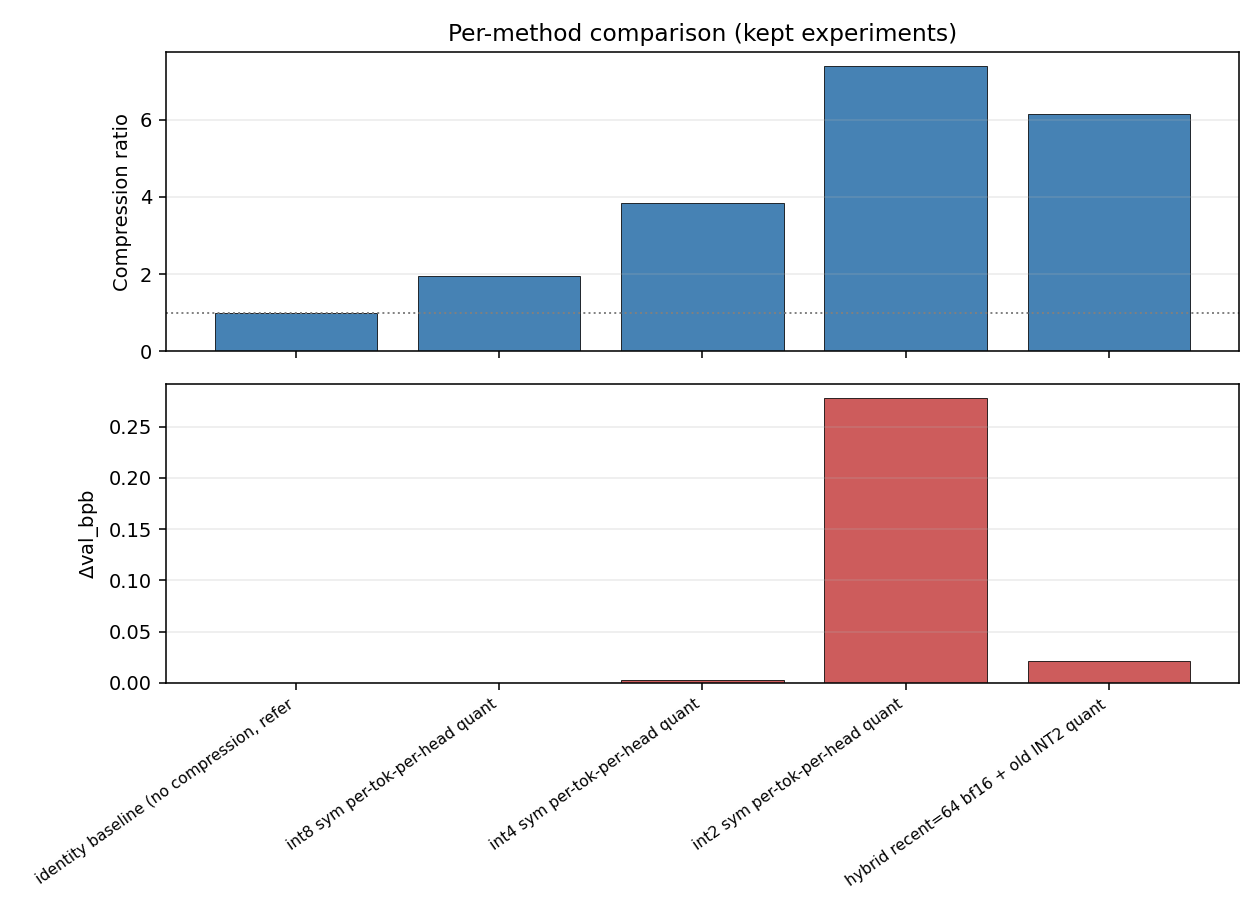
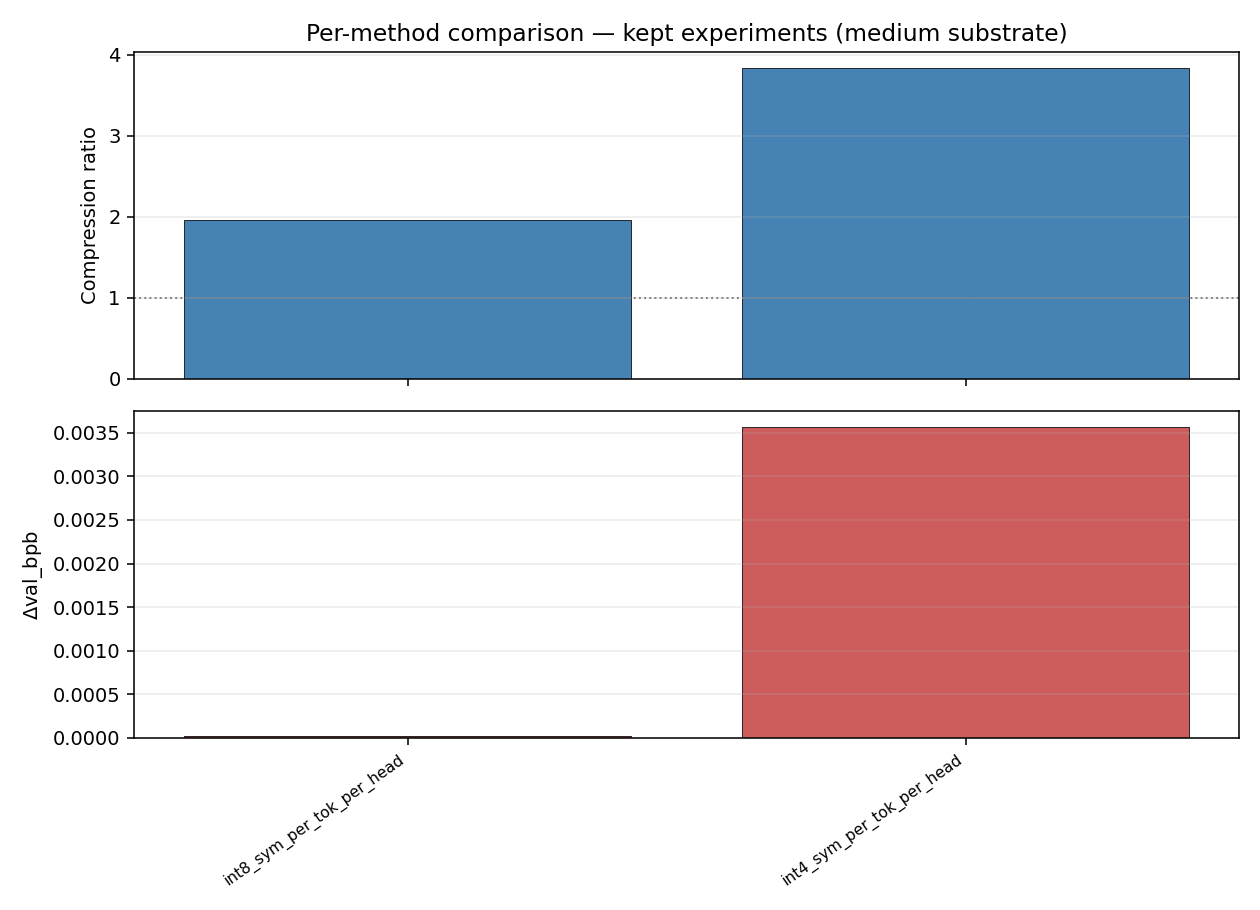
Refresh figures: family_pareto, substrate_sweep, multi-substrate Pareto
figures.py now reads the substrate tag from each row's description, drops
crash/marker rows, and emits:
- pareto.png        — Δbpb vs ratio coloured by substrate
- family_pareto.png — same but coloured by compressor family (medium)
- substrate_sweep.png — Δbpb and ratio across small→medium→large
- score_trajectory.png, method_comparison.png

diff --git a/figures.py b/figures.py
@@ -1,15 +1,16 @@
 """Generate figures for the paper from results.tsv.
 
 Reads results.tsv, plots:
-  - Pareto front: compression_ratio (x) vs val_bpb_delta (y), kept points highlighted
-  - Bar chart of compression_score by experiment
-  - Score vs experiment-index trajectory (research progress over time)
-
-Outputs to figures/*.png.
+  - figures/pareto.png            — Pareto front for each substrate
+  - figures/family_pareto.png     — same but coloured by compressor family
+  - figures/substrate_sweep.png   — compressor-by-substrate comparison
+  - figures/score_trajectory.png  — research-progress plot
+  - figures/method_comparison.png — per-method ratio + delta bar chart
 """
 import os
 import csv
 import math
+import re
 import matplotlib
 matplotlib.use("Agg")
 import matplotlib.pyplot as plt
@@ -18,57 +19,200 @@ FIG_DIR = "figures"
 os.makedirs(FIG_DIR, exist_ok=True)
 
 
+SUBSTRATES = ["small", "medium", "large"]
+SUBSTRATE_COLORS = {"small": "#9c5fb6", "medium": "#1f77b4", "large": "#d62728"}
+
+FAMILY_COLORS = {
+    "quant":      "#1f77b4",
+    "quant_grp":  "#aec7e8",
+    "quant_asym": "#5b8ec7",
+    "quant_mix":  "#003f88",
+    "evict":      "#d62728",
+    "evict_sink": "#ff9896",
+    "evict_topk": "#ff7f0e",
+    "lowrank":    "#9467bd",
+    "headprune":  "#8c564b",
+    "hybrid":     "#2ca02c",
+    "stack":      "#17becf",
+    "identity":   "#777777",
+}
+
+
+def family_of(name):
+    n = name.lower()
+    if n.startswith("identity"):
+        return "identity"
+    if n.startswith("stack_"):
+        return "stack"
+    if n.startswith("hybrid_"):
+        return "hybrid"
+    if "_asym" in n:
+        return "quant_asym"
+    if n.startswith("mixed_"):
+        return "quant_mix"
+    if "_group" in n or re.search(r"int\d+_g\d+", n):
+        return "quant_grp"
+    if re.match(r"int\d+", n):
+        return "quant"
+    if n.startswith("sliding_window"):
+        return "evict"
+    if n.startswith("sink"):
+        return "evict_sink"
+    if n.startswith("topk_"):
+        return "evict_topk"
+    if n.startswith("svd_") or n.startswith("randproj"):
+        return "lowrank"
+    if n.startswith("headprune"):
+        return "headprune"
+    return "identity"
+
+
+def parse_row_substrate(desc):
+    """Extract substrate tag (small/medium/large) from description, or 'small_legacy' for old rows."""
+    m = re.search(r"\[(small|medium|large)", desc)
+    if m:
+        return m.group(1)
+    return "small_legacy"
+
+
+def parse_compressor_name(desc):
+    """Extract compressor name from description (first token before '[' or first phrase)."""
+    m = re.match(r"([a-zA-Z0-9_+:]+)", desc)
+    if m:
+        return m.group(1)
+    return desc.split()[0] if desc else ""
+
+
 def load_results(path="results.tsv"):
     rows = []
     with open(path) as f:
         reader = csv.DictReader(f, delimiter="\t")
         for row in reader:
             try:
+                if row["status"] == "marker":
+                    continue
+                if row["status"] == "crash":
+                    continue
+                ratio = float(row["compression_ratio"])
+                if ratio <= 0:
+                    continue
+                desc = row["description"]
+                substrate = parse_row_substrate(desc)
+                name = parse_compressor_name(desc)
                 rows.append({
                     "commit": row["commit"],
                     "compression_score": float(row["compression_score"]),
-                    "compression_ratio": float(row["compression_ratio"]),
+                    "compression_ratio": ratio,
                     "val_bpb_delta": float(row["val_bpb_delta"]),
                     "compressed_bpb": float(row["compressed_bpb"]),
                     "status": row["status"],
-                    "description": row["description"],
+                    "description": desc,
+                    "substrate": substrate,
+                    "name": name,
+                    "family": family_of(name),
                 })
             except (KeyError, ValueError):
                 continue
     return rows
 
 
-def plot_pareto(rows, out_path):
-    fig, ax = plt.subplots(figsize=(8, 5.5))
-    keeps = [r for r in rows if r["status"] == "keep" and r["compression_ratio"] > 0]
-    discards = [r for r in rows if r["status"] == "discard" and r["compression_ratio"] > 0]
-    if discards:
-        ax.scatter([r["compression_ratio"] for r in discards],
-                   [r["val_bpb_delta"] for r in discards],
-                   marker="x", c="lightgray", s=50, label="discarded", zorder=2)
-    if keeps:
-        ax.scatter([r["compression_ratio"] for r in keeps],
-                   [r["val_bpb_delta"] for r in keeps],
-                   marker="o", c="steelblue", s=80, edgecolors="black",
-                   linewidths=0.7, label="kept", zorder=3)
-        for r in keeps:
-            ax.annotate(r["description"][:32], (r["compression_ratio"], r["val_bpb_delta"]),
-                        fontsize=7, alpha=0.85, xytext=(4, 4), textcoords="offset points")
-    # Iso-score lines: ratio - 10*delta = const → delta = (ratio - const)/10
-    if keeps or discards:
-        all_r = [r["compression_ratio"] for r in keeps + discards]
-        rmax = max(all_r + [1.0])
-        for level in [1.0, 2.0, 3.0, 4.0]:
-            xs = [1.0, rmax * 1.05]
-            ys = [(x - level) / 10.0 for x in xs]
-            ax.plot(xs, ys, ls="--", lw=0.6, c="gray", alpha=0.5)
-            ax.text(xs[1], ys[1], f"score={level}", fontsize=7, c="gray", alpha=0.7)
+def plot_substrate_pareto(rows, out_path):
+    """Pareto colored by substrate, all on one axis."""
+    fig, ax = plt.subplots(figsize=(8.5, 5.5))
+    for sub in ["small", "medium", "large"]:
+        sub_rows = [r for r in rows if r["substrate"] == sub]
+        if not sub_rows:
+            continue
+        keeps = [r for r in sub_rows if r["status"] == "keep"]
+        discards = [r for r in sub_rows if r["status"] == "discard"]
+        c = SUBSTRATE_COLORS[sub]
+        if discards:
+            ax.scatter([r["compression_ratio"] for r in discards],
+                       [r["val_bpb_delta"] for r in discards],
+                       marker="x", c=c, s=40, alpha=0.45, label=f"{sub} (discard)")
+        if keeps:
+            ax.scatter([r["compression_ratio"] for r in keeps],
+                       [r["val_bpb_delta"] for r in keeps],
+                       marker="o", c=c, s=90, edgecolors="black",
+                       linewidths=0.7, label=f"{sub} (keep)")
+            for r in keeps:
+                ax.annotate(r["name"][:24], (r["compression_ratio"], r["val_bpb_delta"]),
+                            fontsize=7, alpha=0.85, xytext=(4, 4), textcoords="offset points")
     ax.axhline(0, c="black", lw=0.4, alpha=0.5)
-    ax.set_xlabel("Compression ratio (uncompressed_bytes / compressed_bytes)")
-    ax.set_ylabel(r"Quality loss $\Delta$val_bpb (compressed - baseline)")
-    ax.set_title("Pareto front of KV-cache compressors\n(higher ratio + lower delta = better)")
-    ax.legend(loc="upper left")
+    ax.axhline(0.10, c="orange", lw=0.6, ls=":", alpha=0.6, label="Δ=0.10 (keep gate)")
+    ax.set_xlabel("Compression ratio (uncompressed bytes / compressed bytes)")
+    ax.set_ylabel(r"Quality loss $\Delta$val_bpb")
+    ax.set_title("Pareto front by substrate scale (D=3 small, D=6 medium, D=10 large)")
+    ax.legend(loc="upper left", fontsize=8)
     ax.grid(alpha=0.25)
+    fig.tight_layout()
+    fig.savefig(out_path, dpi=140)
+    plt.close(fig)
+
+
+def plot_family_pareto(rows, out_path, substrate="medium"):
+    """Pareto colored by compressor family, single substrate."""
+    fig, ax = plt.subplots(figsize=(8.5, 5.5))
+    sub_rows = [r for r in rows if r["substrate"] == substrate]
+    if not sub_rows:
+        plt.close(fig)
+        return
+    by_family = {}
+    for r in sub_rows:
+        by_family.setdefault(r["family"], []).append(r)
+    for fam, frows in by_family.items():
+        c = FAMILY_COLORS.get(fam, "#888888")
+        ax.scatter([r["compression_ratio"] for r in frows],
+                   [r["val_bpb_delta"] for r in frows],
+                   c=c, s=70, edgecolors="black", linewidths=0.5,
+                   alpha=0.85, label=fam)
+        for r in frows:
+            ax.annotate(r["name"][:22], (r["compression_ratio"], r["val_bpb_delta"]),
+                        fontsize=6, alpha=0.7, xytext=(3, 3), textcoords="offset points")
+    ax.axhline(0, c="black", lw=0.4, alpha=0.5)
+    ax.axhline(0.10, c="orange", lw=0.6, ls=":", alpha=0.6, label="Δ=0.10 (keep gate)")
+    ax.set_xlabel("Compression ratio")
+    ax.set_ylabel(r"$\Delta$val_bpb")
+    ax.set_title(f"Family-resolved Pareto front ({substrate} substrate)")
+    ax.legend(loc="upper left", fontsize=8)
+    ax.grid(alpha=0.25)
+    fig.tight_layout()
+    fig.savefig(out_path, dpi=140)
+    plt.close(fig)
+
+
+def plot_substrate_sweep(rows, out_path):
+    """For each compressor present on >=2 substrates, plot Δbpb vs substrate scale."""
+    by_name = {}
+    for r in rows:
+        if r["substrate"] not in SUBSTRATES:
+            continue
+        by_name.setdefault(r["name"], {})[r["substrate"]] = r
+    common = [n for n, d in by_name.items() if len(d) >= 2]
+    if not common:
+        return
+    fig, (ax_d, ax_r) = plt.subplots(1, 2, figsize=(11, 4.5))
+    x_pos = {"small": 0, "medium": 1, "large": 2}
+    for n in sorted(common):
+        d = by_name[n]
+        xs = sorted([x_pos[s] for s in d.keys() if s in x_pos])
+        labels_in_order = [s for s in SUBSTRATES if s in d]
+        ys_d = [d[s]["val_bpb_delta"] for s in labels_in_order]
+        ys_r = [d[s]["compression_ratio"] for s in labels_in_order]
+        ax_d.plot(xs, ys_d, marker="o", lw=1.4, label=n[:28])
+        ax_r.plot(xs, ys_r, marker="o", lw=1.4)
+    for ax in (ax_d, ax_r):
+        ax.set_xticks([0, 1, 2])
+        ax.set_xticklabels(["small\n(D=3)", "medium\n(D=6)", "large\n(D=10)"])
+        ax.grid(alpha=0.25)
+    ax_d.axhline(0, c="black", lw=0.5)
+    ax_d.axhline(0.10, c="orange", lw=0.6, ls=":")
+    ax_d.set_ylabel(r"$\Delta$val_bpb")
+    ax_r.set_ylabel("Compression ratio")
+    ax_d.set_title("Quality loss across substrate scale")
+    ax_r.set_title("Compression ratio across substrate scale")
+    ax_d.legend(loc="upper right", fontsize=7, ncol=1)
+    fig.suptitle("Substrate-scale sweep: ordering robustness of compressor leaderboard")
     fig.tight_layout()
     fig.savefig(out_path, dpi=140)
     plt.close(fig)
@@ -82,7 +226,6 @@ def plot_score_trajectory(rows, out_path):
     colors = {"keep": "seagreen", "discard": "lightcoral", "crash": "black"}
     cs = [colors.get(s, "gray") for s in statuses]
     ax.bar(xs, ys, color=cs, edgecolor="black", linewidth=0.4)
-    # Running max
     running = []
     cur = -math.inf
     for s, st in zip(ys, statuses):
@@ -92,7 +235,7 @@ def plot_score_trajectory(rows, out_path):
     ax.plot(xs, running, c="steelblue", lw=2, marker="o", ms=4, label="best so far")
     ax.axhline(1.0, c="gray", ls=":", lw=1, label="identity baseline")
     ax.set_xlabel("Experiment index")
-    ax.set_ylabel("compression_score (ratio - 10 * max(Δbpb, 0))")
+    ax.set_ylabel(r"$S(\alpha=10) = $ratio$- 10 \max(\Delta\mathrm{bpb}, 0)$")
     ax.set_title("Compression score over experimentation trajectory")
     ax.legend()
     ax.grid(alpha=0.25, axis="y")
@@ -101,20 +244,20 @@ def plot_score_trajectory(rows, out_path):
     plt.close(fig)
 
 
-def plot_method_comparison(rows, out_path):
-    """Bar chart: compression_ratio side-by-side with val_bpb_delta per kept method."""
-    keeps = [r for r in rows if r["status"] == "keep"]
+def plot_method_comparison(rows, out_path, substrate="medium"):
+    sub_rows = [r for r in rows if r["substrate"] == substrate]
+    keeps = [r for r in sub_rows if r["status"] == "keep"]
     if not keeps:
         return
     fig, (ax1, ax2) = plt.subplots(2, 1, figsize=(9, 6.5), sharex=True)
-    labels = [r["description"][:40] for r in keeps]
+    labels = [r["name"][:40] for r in keeps]
     ratios = [r["compression_ratio"] for r in keeps]
     deltas = [r["val_bpb_delta"] for r in keeps]
     xs = range(len(labels))
     ax1.bar(xs, ratios, color="steelblue", edgecolor="black", linewidth=0.4)
     ax1.axhline(1.0, c="gray", ls=":", lw=1)
     ax1.set_ylabel("Compression ratio")
-    ax1.set_title("Per-method comparison (kept experiments)")
+    ax1.set_title(f"Per-method comparison — kept experiments ({substrate} substrate)")
     ax1.grid(alpha=0.25, axis="y")
     ax2.bar(xs, deltas,
             color=["seagreen" if d <= 0 else "indianred" for d in deltas],
@@ -134,7 +277,11 @@ if __name__ == "__main__":
     if not rows:
         print("No rows in results.tsv yet; nothing to plot.")
         raise SystemExit(0)
-    plot_pareto(rows, os.path.join(FIG_DIR, "pareto.png"))
+    plot_substrate_pareto(rows, os.path.join(FIG_DIR, "pareto.png"))
+    plot_family_pareto(rows, os.path.join(FIG_DIR, "family_pareto.png"), substrate="medium")
+    plot_substrate_sweep(rows, os.path.join(FIG_DIR, "substrate_sweep.png"))
     plot_score_trajectory(rows, os.path.join(FIG_DIR, "score_trajectory.png"))
     plot_method_comparison(rows, os.path.join(FIG_DIR, "method_comparison.png"))
-    print(f"Wrote {len(rows)} rows -> {FIG_DIR}/pareto.png, score_trajectory.png, method_comparison.png")
+    print(f"Wrote {len(rows)} rows -> "
+          f"{FIG_DIR}/pareto.png, family_pareto.png, substrate_sweep.png, "
+          f"score_trajectory.png, method_comparison.png")
